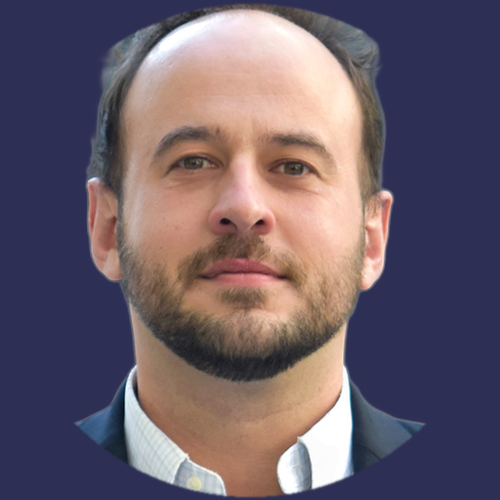
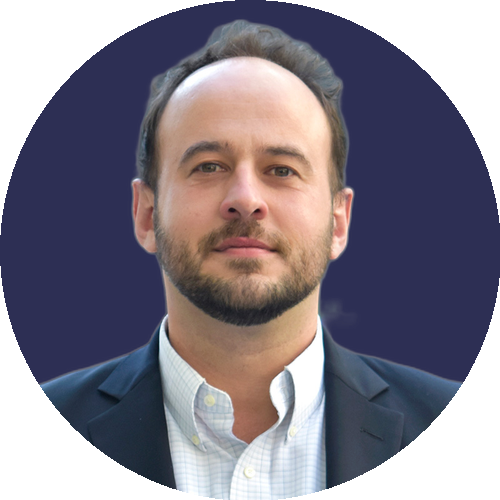
Update Ruta & Gunnar headshots with new source photos, remove Leadership tag
- New rembg-processed circle crops from gunnar1.jpg and ruta1.jpg
- Remove "Leadership" tag from team slide header

diff --git a/index.html b/index.html
@@ -1695,7 +1695,7 @@ div:hover > .inst-hint{opacity:1!important}
      ============================================= -->
 <section class="slide" id="s12">
   <div class="z1" style="height:100%;display:flex;flex-direction:column;justify-content:center">
-    <div class="center" style="margin-bottom:16px"><div class="tag anim" style="color:var(--teal);font-size:12px;letter-spacing:4px">Leadership</div><h2 class="anim d1" style="margin-top:10px">Executive Team &amp; Advisors</h2></div>
+    <div class="center" style="margin-bottom:16px"><h2 class="anim d1">Executive Team &amp; Advisors</h2></div>
     <div style="font-size:10px;color:var(--teal);font-weight:700;letter-spacing:2px;margin-bottom:10px" class="anim d2">BUSINESS LEADERSHIP</div>
     <div class="grid-4 anim d2" style="margin-bottom:8px">
       <div class="hs-wrap" onclick="openModal('david')"><img src="img/crop/team_david_perez.png" class="hs" style="border-color:rgba(78,205,196,.3)"/><div class="hs-name">David Perez</div><div class="hs-title" style="color:var(--teal)">Co-Founder &amp; CEO</div><div class="hs-bio">45+ years founding ventures</div><div class="hs-hint">TAP FOR BIO</div></div>
